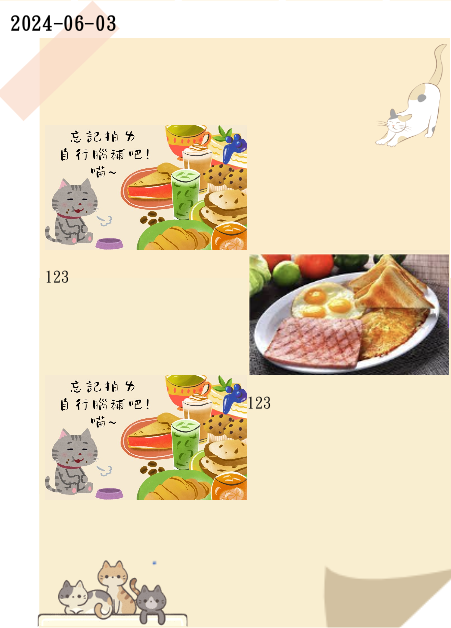
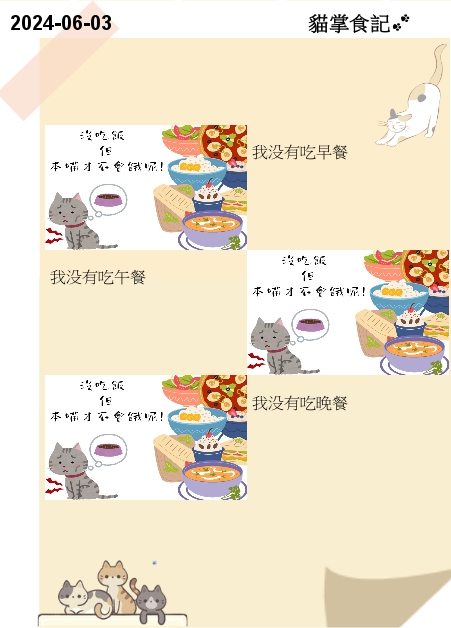
添加浮水印

Changed region(s): [[0.0931, 0.1815, 1.0, 0.8169], [0.6829, 0.0, 0.9002, 0.0605], [0.031, 0.0, 0.2794, 0.0605]]

diff --git a/app/Meals.java b/app/Meals.java
@@ -38,18 +38,38 @@ public class Meals {
             BufferedImage background = ImageIO.read(new File("images/background.png"));
             Graphics2D g = background.createGraphics();
 
-            // 開啟抗鋸齒和高質量渲染
+            // 开启抗锯齿和高质量渲染
             g.setRenderingHint(RenderingHints.KEY_INTERPOLATION, RenderingHints.VALUE_INTERPOLATION_BICUBIC);
             g.setRenderingHint(RenderingHints.KEY_RENDERING, RenderingHints.VALUE_RENDER_QUALITY);
             g.setRenderingHint(RenderingHints.KEY_ANTIALIASING, RenderingHints.VALUE_ANTIALIAS_ON);
 
-            // 設定字型顏色和大小
+            // 设置字体颜色和大小
             g.setColor(Color.BLACK);
-            g.setFont(new Font("標楷體", Font.BOLD, 20));
+            Font font = new Font("标楷体", Font.BOLD, 20);
+            g.setFont(font);
 
-            // 繪製日期
+            // 绘制日期
             String date = new SimpleDateFormat("yyyy-MM-dd").format(new Date());
             g.drawString(date, 10, 30);
+
+            // 绘制浮水印文字
+            String watermarkText = "貓掌食記";
+            Font watermarkFont = new Font("标楷体", Font.BOLD, 20);
+            g.setFont(watermarkFont);
+            FontMetrics fm = g.getFontMetrics(watermarkFont);
+            int textWidth = fm.stringWidth(watermarkText);
+            int textHeight = fm.getHeight();
+            int textX = background.getWidth() - textWidth - 60; // 向左移动一些
+            int textY = textHeight ;
+            g.drawString(watermarkText, textX, textY);
+
+            // 加载并绘制 cat.png
+            BufferedImage catImage = ImageIO.read(new File("images/cat.png"));
+            int catImageWidth = (int)(catImage.getWidth()*0.5);
+            int catImageHeight = (int)(catImage.getHeight()*0.5);
+            int catX = textX + textWidth ;
+            int catY = 10;
+            g.drawImage(catImage, catX, catY, catImageWidth,catImageHeight,null);
 
             int mealWidth = (int) (background.getWidth() * 0.45);
             int mealHeight = (int) (background.getHeight() * 0.2);
@@ -64,50 +84,50 @@ public class Meals {
                         meal.setImagePath(DEFAULT_IMAGE_PATH2);
                     }
                 } else {
-                    meal = new Meal(date, types[i], "我沒有吃" + types[i], DEFAULT_IMAGE_PATH1);
+                    meal = new Meal(date, types[i], "我没有吃" + types[i], DEFAULT_IMAGE_PATH1);
                 }
 
                 BufferedImage foodImage = ImageIO.read(new File(meal.getImagePath()));
-                // 縮放食物圖片以適應背景的一部分
+                // 缩放食物图片以适应背景的一部分
                 BufferedImage scaledFoodImage = new BufferedImage(mealWidth, mealHeight, BufferedImage.TYPE_INT_ARGB);
                 Graphics2D g2d = scaledFoodImage.createGraphics();
                 g2d.setRenderingHint(RenderingHints.KEY_INTERPOLATION, RenderingHints.VALUE_INTERPOLATION_BICUBIC);
                 g2d.setRenderingHint(RenderingHints.KEY_RENDERING, RenderingHints.VALUE_RENDER_QUALITY);
                 g2d.drawImage(foodImage, 0, 0, mealWidth, mealHeight, null);
                 g2d.dispose();
-                // 將食物圖片繪製到背景上的正確位置
-                x = (i % 2) == 0 ? (int) (background.getWidth() * 0.1) : (int) (background.getWidth() * 0.1+mealWidth);
+                // 将食物图片绘制到背景上的正确位置
+                x = (i % 2) == 0 ? (int) (background.getWidth() * 0.1) : (int) (background.getWidth() * 0.1 + mealWidth);
                 y = (int) (background.getHeight() * 0.2) * (i + 1);
                 g.drawImage(scaledFoodImage, x, y, null);
-                // 如果有心情，將心情繪製到圖片上
+                // 如果有心情，将心情绘制到图片上
                 if (!meal.getMood().isEmpty()) {
                     int moodX;
                     int moodY;
                     switch (types[i]) {
                         case "早餐":
-                            moodX = (int) (x+mealWidth);
-                            moodY = (int) (background.getHeight() * 0.25); // 距離上面20%
+                            moodX = (int) (x + mealWidth +5);
+                            moodY = (int) (background.getHeight() * 0.25); // 距离上面20%
                             break;
                         case "午餐":
-                            moodX = (int) (background.getWidth() * 0.1); // 距離左邊10%
-                            moodY = (int) (background.getHeight() * 0.45); // 距離上面40%
+                            moodX = (int) (background.getWidth() * 0.1 +5); // 距离左边10%
+                            moodY = (int) (background.getHeight() * 0.45); // 距离上面40%
                             break;
                         case "晚餐":
-                            moodX = (int) (x+mealWidth);
-                            moodY = (int) (background.getHeight() * 0.65); // 距離上面60%
+                            moodX = (int) (x + mealWidth +5);
+                            moodY = (int) (background.getHeight() * 0.65); // 距离上面60%
                             break;
                         default:
                             moodX = 0;
                             moodY = 0;
                     }
-                    g.setFont(new Font("標楷體", Font.PLAIN, 16)); // 設定心情的字型大小
+                    g.setFont(new Font("标楷体", Font.PLAIN, 16)); // 设置心情的字体大小
                     g.drawString(meal.getMood(), moodX, moodY);
                 }
             }
 
             g.dispose();
 
-            // 將結果寫入到新的圖片檔案
+            // 将结果写入到新的图片文件
             ImageIO.write(background, "png", new File("results/" + new SimpleDateFormat("yyyy-MM-dd").format(new Date()) + ".png"));
         } catch (IOException e) {
             e.printStackTrace();
